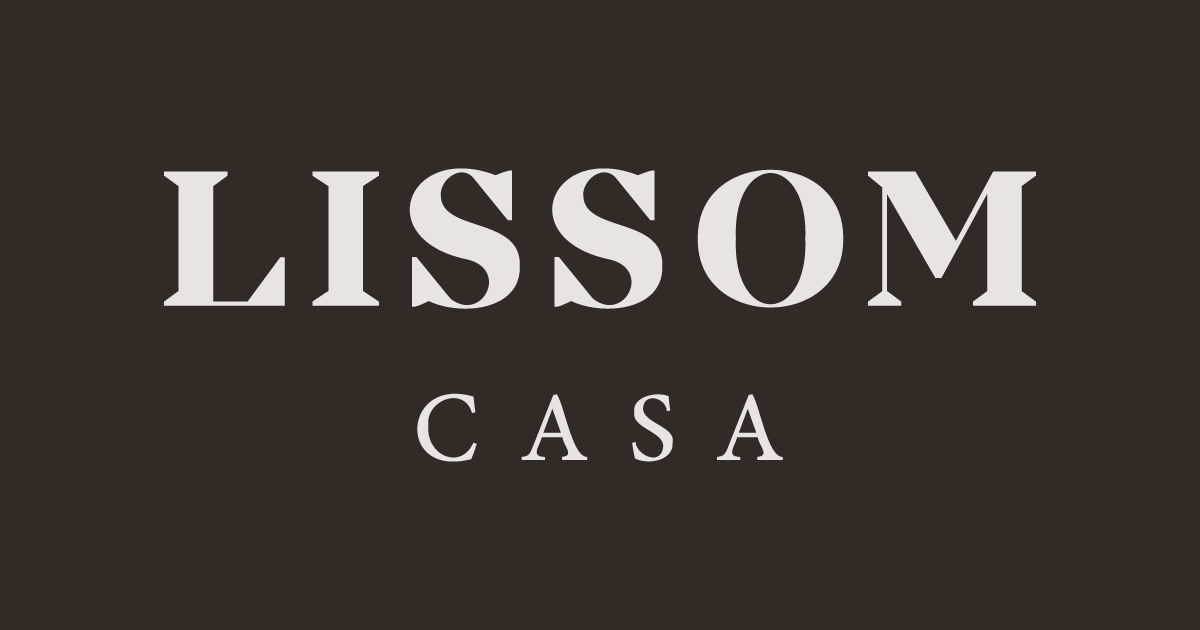
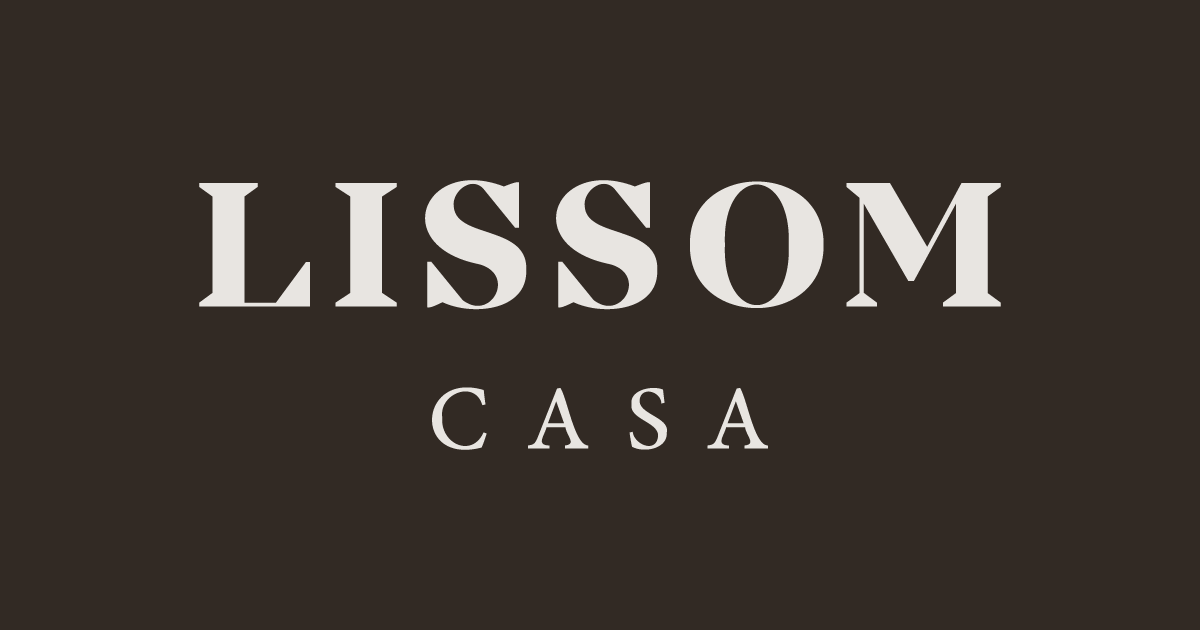
before Video & Words

diff --git a/app/ui/ideas/footer.css b/app/ui/ideas/footer.css
@@ -23,7 +23,14 @@ body {
   padding: 70px 100px 70px 100px;
   color: #2f2f2f;
   /* background-image: url('/footer-bg-2.png');   */
-    background-color: #59534d;
+  background-color: #59534d;
+  background: rgb(181,165,146);
+  background: linear-gradient(200deg, rgba(181,165,146,1) 0%, rgba(58,51,39,1) 86%);
+}
+
+.label-mobile,
+.footer-logo-mobile {
+  display: none;
 }
 
 .footer > * {
@@ -32,14 +39,14 @@ body {
 }
 
 .footer-group-left {
-  flex: 3;
+  flex: 2.8;
 }
 
 .footer-group-right {
   display: flex;
   flex-direction: column;
   align-items: end;
-  flex: 1;
+  flex: 1.2;
 }
 
 .footer-outer-wrap {
@@ -92,6 +99,9 @@ body {
   gap: 20px;
   flex: 3;
 }
+.share-group {
+  margin-bottom: 28px;
+}
 
 .footer-legal-group {
   display: flex;
@@ -104,7 +114,6 @@ body {
   align-items: center;
   justify-content: center;
   height: 36px;
-  max-width: max-content;
   background-color: #e8e5e1;
   color: #3a3a3a;
   border-radius: 6px;
@@ -115,6 +124,11 @@ body {
   font-weight: 700;
   letter-spacing: 1px;
   padding: 1.5em 1.8em;
+  width: 120px;
+}
+
+.footer-label {
+  font-size: 1em;
 }
 
 .footer ul {
@@ -178,7 +192,7 @@ body {
 /* Add to footer.css */
 .back-to-top-btn {
   position: relative;
-  background-color: #76a9bc;
+  background-color: #58534c;
   color: #e8e5e1;
   border: none;
   padding: 9px 14px;
@@ -286,22 +300,50 @@ body {
 }
 
 @media screen and (max-width: 520px) {
+
+  .share-group {
+    margin-bottom: 0;
+  }
+
+  .label-mobile {
+    margin-top: 12px;
+    font-size: 14px;
+  }
+
+  .label-mobile,
+  .footer-logo-mobile {
+    display: flex;
+  }
+  .label-desktop,
+  .footer-logo-desktop {
+    display: none !important; 
+  }
+
+  .footer-img-mobile {
+    width: 60%;
+  }
+
   .footer {
     display: block;
     padding: 30px;
-    background-image: url('/mobile-footer-2.jpg');
+    /* background-image: url('/mobile-footer-2.jpg'); */
     background-position: 1%;
     margin: 00 0 0;
     border-radius: 0;
+    background: rgb(181,165,146);
+    background: linear-gradient(7deg, rgba(181,165,146,1) 0%, rgba(58,51,39,1) 78%);  
   }
 
   .footer__logo {
     margin-top: 20px;
     max-width: 240px;
+    margin: 0 auto;
   }
 
   .footer__addr {
+    text-align: center;
     margin-bottom: 20px;
+    margin-right: 0;
   }
 
   .footer__logo a {
@@ -313,6 +355,8 @@ body {
     gap: 10px;
     flex-direction: column;
   }
+
+
 
   .footer-outer-wrap {
     margin-top: 0;
@@ -363,8 +407,19 @@ body {
     padding: 24px 0 36px 0;
     justify-content: center;
   }
+
+  .footer__nav > *,
+  .nav__title {
+    margin-right: 0;
+  }
+
+  .nav__title {
+    justify-content: center;
+  }
   
-  
+  .footer ul {
+    justify-content: center;
+  }
   
 }
 

diff --git a/public/blog/index.html b/public/blog/index.html
@@ -450,7 +450,7 @@
             <p class="border-top mb-0 mt-4 pt-3 small">&copy; <script>document.write(new Date().getFullYear())</script>, JoeBlog Created By <a href="https://www.devcrud.com" class="text-muted font-weight-bold" target="_blank">DevCrud.</a>  All rights reserved </p> 
         </div>      
     </footer> -->
-    <footer class="footer"><div class="footer-group-left"><div class="footer__addr"><h1 class="footer__logo"><a href="/"><img src="/footer-logo.png" alt="Footer Logo"></a></h1><br><div class="footer-outer-wrap"><div class="footer-item-wrap"><h2>Address -</h2><address class="address">台南市安平區健康三街237號B1<br><br>+886 0911-637-888<br></address></div></div></div><ul class="footer__nav"><li class="nav__item nav__item--extra"><h2 class="nav__title">Social Media</h2><ul class="nav__ul nav__ul--extra"><li><a href="#">Facebook</a></li><li><a href="#">Instagram</a></li><li><a href="#">Thread</a></li><li><a href="#">Line</a></li></ul></li></ul></div><div class="footer-group-right"><div class="footer-btn-group"><a class="footer__btn" href="mailto:pmp@conflux-tech.com">Contact</a></div><div class="footer-legal-group"><div class="legal"><div class="legal__links"><span>All rights reserved.<!-- --> <span class="heart">© 2025 LISSOM</span> </span></div></div></div></div><div class="back-to-top-container"></div></footer>
+    <footer class="footer"><div class="footer-group-left"><div class="footer__addr"><h1 class="footer__logo"><a href="/"><img src="/footer-logo.png" alt="Footer Logo"></a></h1><br><div class="footer-outer-wrap"><div class="footer-item-wrap"><h2>Address</h2><address class="address">台南市安平區健康三街237號B1<br><br>+886 0911-637-888<br></address></div></div></div><ul class="footer__nav"><li class="nav__item nav__item--extra"><h2 class="nav__title">Social Media</h2><ul class="nav__ul nav__ul--extra"><li><a href="#">Facebook</a></li><li><a href="#">Instagram</a></li><li><a href="#">Thread</a></li><li><a href="#">Line</a></li></ul></li></ul></div><div class="footer-group-right"><div class="footer-btn-group"><a class="footer__btn" href="mailto:pmp@conflux-tech.com">Contact</a></div><div class="footer-legal-group"><div class="legal"><div class="legal__links"><span>All rights reserved.<!-- --> <span class="heart">© 2025 LISSOM</span> </span></div></div></div></div><div class="back-to-top-container"></div></footer>
     <!-- End of Page Footer -->
 
 	<!-- core  -->

diff --git a/app/ideas/footer.tsx b/app/ideas/footer.tsx
@@ -23,14 +23,17 @@ export default function Footer() {
                 <div className="footer-group-left">
                     <div className="footer__addr">
                         <h1 className="footer__logo">
-                            <a href="/">
+                            <a href="/" className="footer-logo-desktop">
                                 <img src="/footer-logo.png" alt="Footer Logo" />
+                            </a>
+                            <a href="/" className="footer-logo-mobile">
+                                <img className="footer-img-mobile" src="/footer-logo-2.png" alt="Footer Logo" />
                             </a>
                         </h1>
                         <br />
                         <div className="footer-outer-wrap">
                             <div className="footer-item-wrap">
-                                <h2>Address -</h2>
+                                <h2>Address</h2>
                                 <address className="address">
                                     台南市安平區健康三街237號B1
                                     <br /><br />
@@ -73,8 +76,14 @@ export default function Footer() {
                         <a className="footer__btn" href="mailto:pmp@conflux-tech.com">
                             Contact
                         </a>
-                        
                     </div>
+                    <div className="footer-btn-group share-group">
+                        <p className="footer-label label-desktop">讚美好因為你滾動~</p>
+                        <a className="footer__btn" href="mailto:pmp@conflux-tech.com">
+                            Share
+                        </a>
+                    </div>
+                    <p className="footer-label label-mobile">讚美好因為你滾動~</p>
                     <div className="footer-legal-group">
                         <div className="legal">
                             <div className="legal__links">

diff --git a/public/blog/assets/css/joeblog.css b/public/blog/assets/css/joeblog.css
@@ -11854,7 +11854,7 @@ p{
 }
 .logo {
   width: 100%;
-  padding: 12px 0;
+  padding: 0;
   display: flex;
   justify-content: center;
   align-self: center;
@@ -11865,14 +11865,13 @@ p{
 .logo-link{
   display: flex;
   font-size: 1.2em;
-  max-width: 330px;
-  padding-top: 24px;
-  padding-bottom: 24px;
+  max-width: 194px;
+  padding-top: 30px;
+  padding-bottom: 20px;
   color: var(--dark-color);
   font-weight: 600;
   letter-spacing: .125em;
   text-transform: uppercase;
-  
 }
 .header-nav{
   align-items: center;
@@ -12034,7 +12033,7 @@ color: #e8e5e1;
     position: relative;
   }
   .header-menu-link {
-    color: rgb(10, 132, 180);
+    color: #322a24;
     padding: 0;
     width: 100%;
     display: block;
@@ -12251,7 +12250,7 @@ body {
 /* Add to footer.css */
 .back-to-top-btn {
   position: relative;
-  background-color: #76a9bc;
+  background-color: #58534c;
   color: #e8e5e1;
   border: none;
   padding: 9px 14px;
@@ -12362,7 +12361,7 @@ body {
   .footer {
     display: block;
     padding: 30px;
-    background-image: url('/mobile-footer-2.jpg');
+    /* background-image: url('/mobile-footer-2.jpg'); */
     background-position: 1%;
     margin: 00 0 0;
     border-radius: 0;

diff --git a/app/ui/ideas/featured.css b/app/ui/ideas/featured.css
@@ -69,7 +69,7 @@ article, aside, details, figcaption, figure, footer, header, hgroup, main, menu,
     color: #888888;
 }
 
-.heading-style-h4  alice-regular {
+.heading-style-h4 {
 
     color: #322A24;
     font-size: 3rem;
@@ -326,7 +326,7 @@ video {
 
 
 @media screen and (max-width: 991px) {
-    .heading-style-h4  alice-regular {
+    .heading-style-h4 {
         font-size: 2.6rem;;
     }
 }
@@ -336,14 +336,16 @@ video {
         padding-top: 1.5rem;
         padding-bottom: .5rem;
     }
-    .heading-style-h4  alice-regular, .heading-style-h6 {
+    .heading-style-h6 {
         display: none;
     }
     .special-section {
         padding-top: 0;
         padding-bottom: 0rem;
     }
-    
+    .heading-style-h4 {
+        font-size: 1.5rem;
+    }
 }
 
 
@@ -448,7 +450,7 @@ svg #base4 {
         padding-bottom: 0;
     }
     .wall {
-        top: 52%;
+        top: 47%;
     }
     .work_gallery {
         /* padding-left: 1.2rem;

diff --git a/app/ui/ideas/header.css b/app/ui/ideas/header.css
@@ -70,7 +70,7 @@ p{
 }
 .logo {
   width: 100%;
-  padding: 12px 0;
+  padding: 0;
   display: flex;
   justify-content: center;
   align-self: center;
@@ -81,9 +81,9 @@ p{
 .logo-link{
   display: flex;
   font-size: 1.2em;
-  max-width: 330px;
-  padding-top: 24px;
-  padding-bottom: 24px;
+  max-width: 194px;
+  padding-top: 30px;
+  padding-bottom: 20px;
   color: var(--dark-color);
   font-weight: 600;
   letter-spacing: .125em;
@@ -255,7 +255,7 @@ color: #e8e5e1;
     position: relative;
   }
   .header-menu-link {
-    color: rgb(10, 132, 180);
+    color: #322a24;
     padding: 0;
     width: 100%;
     display: block;

diff --git a/app/ideas/featured.tsx b/app/ideas/featured.tsx
@@ -15,7 +15,7 @@ export default function Feature() {
                     Presence 
                 </div>
                 <div className="spacer-tiny" />
-                <h2 className="heading-style-h4  alice-regular">
+                <h2 className="heading-style-h4 alice-regular">
                    Refined | Visionary | Grace
                 </h2>
                 <div className="spacer-medium" />

diff --git a/app/ideas/wall.tsx b/app/ideas/wall.tsx
@@ -12,7 +12,7 @@ export default function Wall() {
                     Timeless  
                 </div>
                 <div className="spacer-tiny" />
-                <h2 className="heading-style-h4  alice-regular">
+                <h2 className="heading-style-h4 alice-regular">
                     Curated & Aesthetics
                 </h2>
                 <div className="stage">
